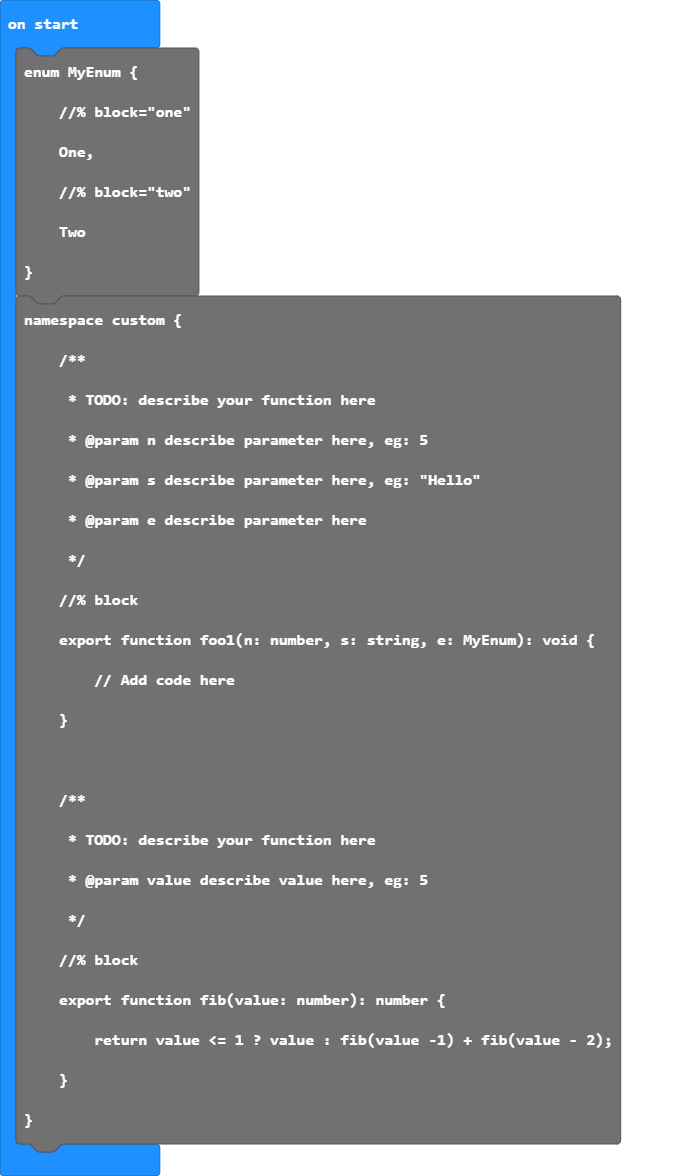
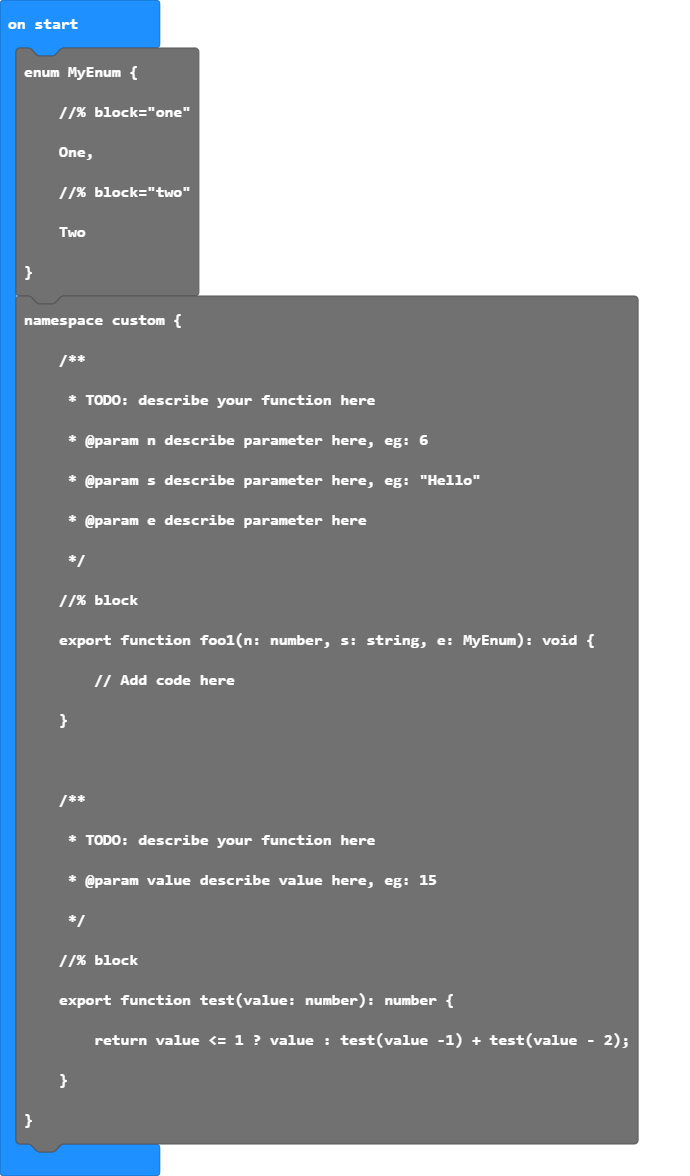
Update main.blocks, main.ts

diff --git a/main.ts b/main.ts
@@ -4,7 +4,7 @@ enum MyEnum {
     //% block="two"
     Two
 }
-namespace custom {
+namespace codingangels {
     /**
      * TODO: describe your function here
      * @param n describe parameter here, eg: 6
